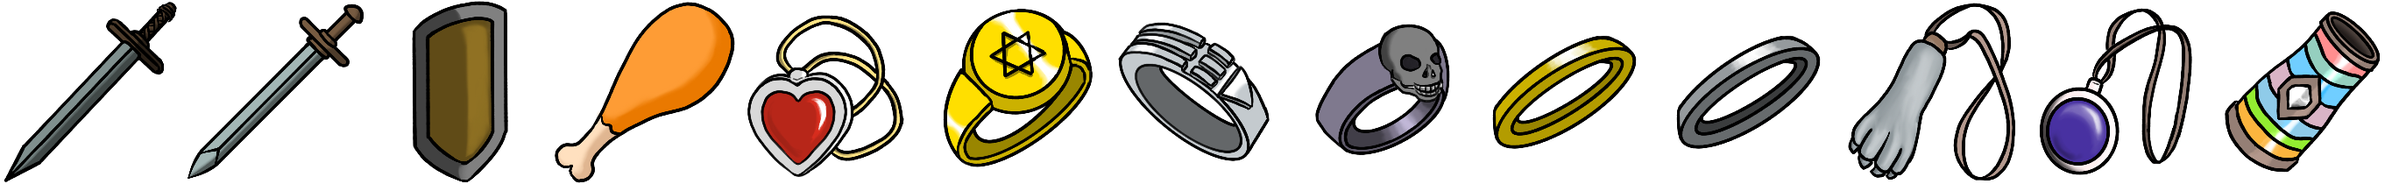
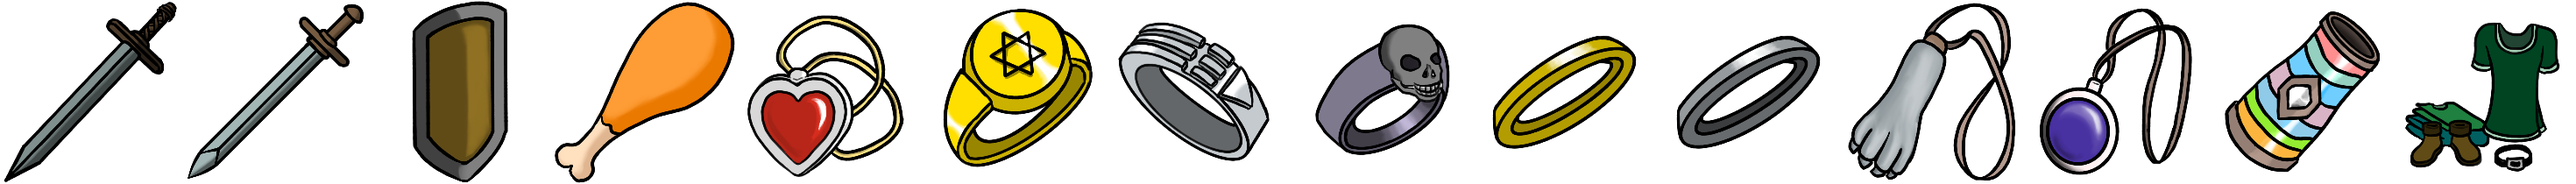
add first equipment as item

diff --git a/2D Metroidvania/Assets/Scripts/Utilities/Objects.cs b/2D Metroidvania/Assets/Scripts/Utilities/Objects.cs
@@ -45,7 +45,8 @@ public class Objects {
     {"silver-bracelet", new PauseItem(Sprites.itemThumbnails[9], Sprites.itemImages[9], "Silver Bracelet", "Imbued with significant defense.", "armwear")},
     {"rabbit-paw", new PauseItem(Sprites.itemThumbnails[10], Sprites.itemImages[10], "Rabbit's Paw", "Carefully crafted from grade-A bunnies.", "neck")},
     {"moonlight-pendant", new PauseItem(Sprites.itemThumbnails[11], Sprites.itemImages[11], "Moonlight Pendant", "Protects from harsh environments and increases visibility.", "neck")},
-    {"rainbow-bracer", new PauseItem(Sprites.itemThumbnails[12], Sprites.itemImages[12], "Rainbow Bracer", "Protects against most magic elements.", "armwear")}
+    {"rainbow-bracer", new PauseItem(Sprites.itemThumbnails[12], Sprites.itemImages[12], "Rainbow Bracer", "Protects against most magic elements.", "armwear")},
+    {"body-1", new PauseItem(Sprites.itemThumbnails[13], Sprites.itemImages[13], "Townsman Tunic", "Your basic countryman attire, custom dyed.", "body")}
 
     // Example of having everything
     // {"chicken-drumstick", new PauseItem(Sprites.itemThumbnails[3], Sprites.itemImages[3], "Chicken Drumstick", "From range-free raised fowl.", "food", new Effects() {hp = 99, mp=99, statusHeal=new string[]{"Poison", "Curse", "Drain"}, atk=-99, def=99, crit=0.5f, luck=-0.2f, magicResistances=new MagicResistance[]{new MagicResistance(){name="Earth", type="add"}, new MagicResistance(){name="Air", type="add"}, new MagicResistance(){name="Water", type="add"}, new MagicResistance(){name="Fire", type="add"}, new MagicResistance(){name="Lightning", type="remove"}, new MagicResistance(){name="Ice", type="remove"}, new MagicResistance(){name="Light", type="remove"}, new MagicResistance(){name="Dark", type="remove"}}})}

diff --git a/2D Metroidvania/Assets/Scripts/Pause.cs b/2D Metroidvania/Assets/Scripts/Pause.cs
@@ -263,7 +263,7 @@ public class Pause : MonoBehaviour {
         itemButtons.ElementAt(i - 1).GetComponent<Button>().navigation = buttonNavigation;
       }
 
-      if (i == itemsList.Count() - 1) {
+      if (i == itemsList.Count() - 1 && itemsList.Count() > 1) {
         Navigation lastButtonNavigation = new Navigation();
         lastButtonNavigation.mode = Navigation.Mode.Explicit;
         lastButtonNavigation.selectOnDown = itemButtons.ElementAt(0).GetComponent<Button>();
@@ -902,7 +902,7 @@ public class Pause : MonoBehaviour {
 
     switch(equipmentType) {
       case "body":
-        Debug.Log("Do nothing for now since I forgot to draw the first body equipment");
+        PopulateItemsContainer(Helpers.GetSpecificItemList(Constants.bodyEquipmentTypes, heroScript.items), false, equipmentContainer);
       break;
       case "arms":
         PopulateItemsContainer(Helpers.GetSpecificItemList(Constants.armEquipmentTypes, heroScript.items), false, equipmentContainer);

diff --git a/2D Metroidvania/Assets/Scripts/Utilities/Constants.cs b/2D Metroidvania/Assets/Scripts/Utilities/Constants.cs
@@ -11,12 +11,10 @@ public class Constants {
   public static string[] forbiddenKeys = {"Escape", "KeypadEnter", "Return", "W", "A", "S", "D", "UpArrow", "DownArrow", "RightArrow", "LeftArrow"};
   public static string[] usableItemTypes = {"food", "potion"};
 
+  public static string[] bodyEquipmentTypes = {"body"};
   public static string[] armEquipmentTypes = {"double", "single", "defense"};
-
   public static string[] neckEquipmentTypes = {"neck"};
-
   public static string[] armwearEquipmentTypes = {"armwear"};
-
   public static string[] ringEquipmentTypes = {"ring"};
 
   public static int arrowExplosionDamage = 50;

diff --git a/2D Metroidvania/Assets/Scripts/Hero.cs b/2D Metroidvania/Assets/Scripts/Hero.cs
@@ -162,6 +162,7 @@ public class Hero : MonoBehaviour {
     items.Add(new Item("rabbit-paw", 1));
     items.Add(new Item("moonlight-pendant", 1));
     items.Add(new Item("rainbow-bracer", 1));
+    items.Add(new Item("body-1", 1));
   }
 
   public void UpdateStats(string stat, int? aggregate) {
